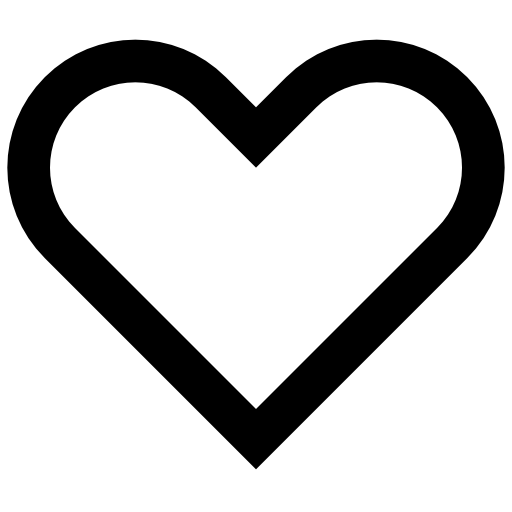
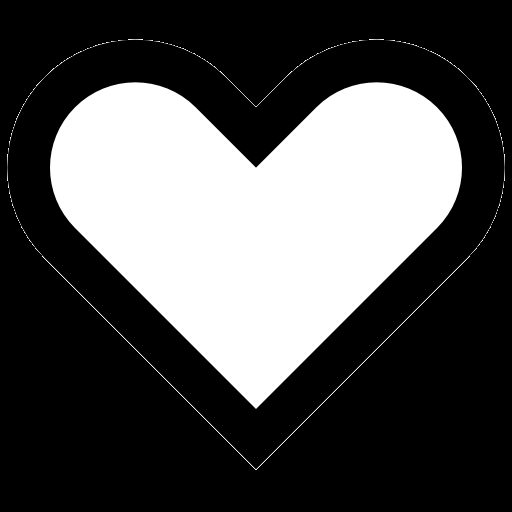
more Scss and general layout

diff --git a/src/assets/styles/cmps/_sideBar.scss b/src/assets/styles/cmps/_sideBar.scss
@@ -1,61 +1,5 @@
 .side-bar {
     .nav-movie-list {
-        margin: 0;
-        padding: 0;
-        width: 200px;
-        background-color: #f1f1f1;
-        position: relative;
-        height: 100%;
-        overflow: auto;
-    }
-
-    /* Sidebar links */
-    .sidebar a {
-        display: block;
-        color: black;
-        padding: 16px;
-        text-decoration: none;
-    }
-
-    /* Active/current link */
-    .sidebar a.active {
-        background-color: #04aa6d;
-        color: white;
-    }
-
-    /* Links on mouse-over */
-    .sidebar a:hover:not(.active) {
-        background-color: #555;
-        color: white;
-    }
-
-    /* Page content. The value of the margin-left property should match the value of the sidebar's width property */
-    div.content {
-        margin-left: 200px;
-        padding: 1px 16px;
-        height: 1000px;
-    }
-
-    /* On screens that are less than 700px wide, make the sidebar into a topbar */
-    @media screen and (max-width: 700px) {
-        .nav-movie-list {
-            width: 100%;
-            height: auto;
-            position: relative;
-        }
-        .sidebar a {
-            float: left;
-        }
-        div.content {
-            margin-left: 0;
-        }
-    }
-
-    /* On screens that are less than 400px, display the bar vertically, instead of horizontally */
-    @media screen and (max-width: 400px) {
-        .nav-movie-list a {
-            text-align: center;
-            float: none;
-        }
+        background-color: $bgcColor;
     }
 }

diff --git a/src/pages/MovieDetails.tsx b/src/pages/MovieDetails.tsx
@@ -28,10 +28,10 @@ export const MovieDetails = ({ match, loadMovies }: any) => {
     if (!movie) return <Loading />
 
     return (
-        <section className="movie-details">
-            <LikeButton isLike={movie.isFavorite} onLikeClick={onLikeClick} />
+        <section className="movie-details tac">
+            <h1>{movie.title}</h1>
             <img src={movie.img} />
-            <h2>{movie.title}</h2>
+            <LikeButton isLike={movie.isFavorite} onLikeClick={onLikeClick} />
             <h3>Director: {movie.director}</h3>
             <h4>Release Date: {movie.releaseDate}</h4>
             <p>{movie.details}</p>

diff --git a/src/App.tsx b/src/App.tsx
@@ -32,12 +32,12 @@ function App() {
   }
 
   return (
-    <div className="main-container">
+    <div className="main-app main-container">
       <Router>
         <UserMsg />
         <AppHeader onChangeFilter={onChangeFilter} />
-        <SideBar movies={movies} />
-        <main >
+        <main className='main-content' >
+          <SideBar movies={movies} />
           <Switch>
             <Route path='/movie/:movieId'
               render={(props) => (

diff --git a/src/cmp/SideBar.tsx b/src/cmp/SideBar.tsx
@@ -11,11 +11,11 @@ interface PropType {
 export const SideBar = ({ movies }: PropType) => {
 
     if (!movies) return <Loading />
-    if (!movies.length) return (<div>Sorry no results...</div>)
 
     return (
         <aside className="side-bar">
             <MovieList movies={movies} />
+            {!movies.length && <div>Sorry no results...</div>}
         </aside>
     )
 }

diff --git a/src/cmp/MoviePreview.tsx b/src/cmp/MoviePreview.tsx
@@ -9,7 +9,7 @@ interface PropType {
 
 export const MoviePreview = ({ movie }: PropType) => {
     return (
-        <section className="film-preview">
+        <section className="movie-preview">
             <NavLink activeClassName="active" exact to={`/movie/${movie._id}`}>
                 <div>{movie.title}</div>
                 {movie.isFavorite && <img src={likeOn} />}

diff --git a/src/cmp/LikeButton.tsx b/src/cmp/LikeButton.tsx
@@ -17,7 +17,7 @@ export const LikeButton = ({ onLikeClick, isLike }: PropType) => {
     return (
         <section className="like-button">
             <button onClick={() => onLikeClick()}>
-                <img src={getIsLiked()} />
+                <img className='heart' src={getIsLiked()} />
             </button>
         </section>
     )

diff --git a/src/assets/styles/cmps/_moviePreview.scss b/src/assets/styles/cmps/_moviePreview.scss
@@ -1,0 +1,14 @@
+.movie-preview {
+    margin-bottom: 15px;
+    a {
+        .active {
+            color: $clr3;
+        }
+        display: flex;
+        justify-content: space-between;
+        img {
+            width: 25px;
+            object-fit: contain;
+        }
+    }
+}

diff --git a/src/assets/styles/pages/_mainApp.scss b/src/assets/styles/pages/_mainApp.scss
@@ -1,4 +1,10 @@
-.main-app{
-    margin-bottom: 350px;
-    text-align: center;
+.main-app {
+    .main-content {
+        display: grid;
+        grid-template-columns: 1fr 4fr;
+        gap: 15px;
+        aside {
+            grid-column: 1/2;
+        }
+    }
 }

diff --git a/src/assets/styles/main.scss b/src/assets/styles/main.scss
@@ -21,7 +21,10 @@
 @import "cmps/loading";
 @import "cmps/userMsg";
 @import "cmps/sideBar";
+@import "cmps/moviePreview";
+@import "cmps/likeButton";
 
 // Views (pages)
 @import "pages/mainApp";
+@import "pages/movieDetails";
 @import "pages/about";

diff --git a/src/assets/styles/basics/_buttons.scss b/src/assets/styles/basics/_buttons.scss
@@ -2,8 +2,8 @@ button {
     cursor: pointer;
     border: none;
     border-radius: 3px;
-&:hover{
-    background-color: #fff;
+    padding: 0;
+    &:hover {
+        background-color: #fff;
+    }
 }
-}
-

diff --git a/src/assets/styles/setup/_variables.scss b/src/assets/styles/setup/_variables.scss
@@ -5,7 +5,7 @@ $fontColor: #c5c202;
 
 $clr1: #ffffff;
 $clr2: #00306a;
-// $clr3: #ffffff;
+$clr3: #a32721;
 // $clr4: #eb5a46;
 // $clr5: #c377e0;
 // $clr6: #5ba4cf;

diff --git a/src/assets/styles/cmps/_likeButton.scss b/src/assets/styles/cmps/_likeButton.scss
@@ -1,0 +1,8 @@
+.like-button {
+    background-color: black;
+    .heart {
+        width: 60px;
+        height: 70px;
+        object-fit: contain;
+    }
+}
